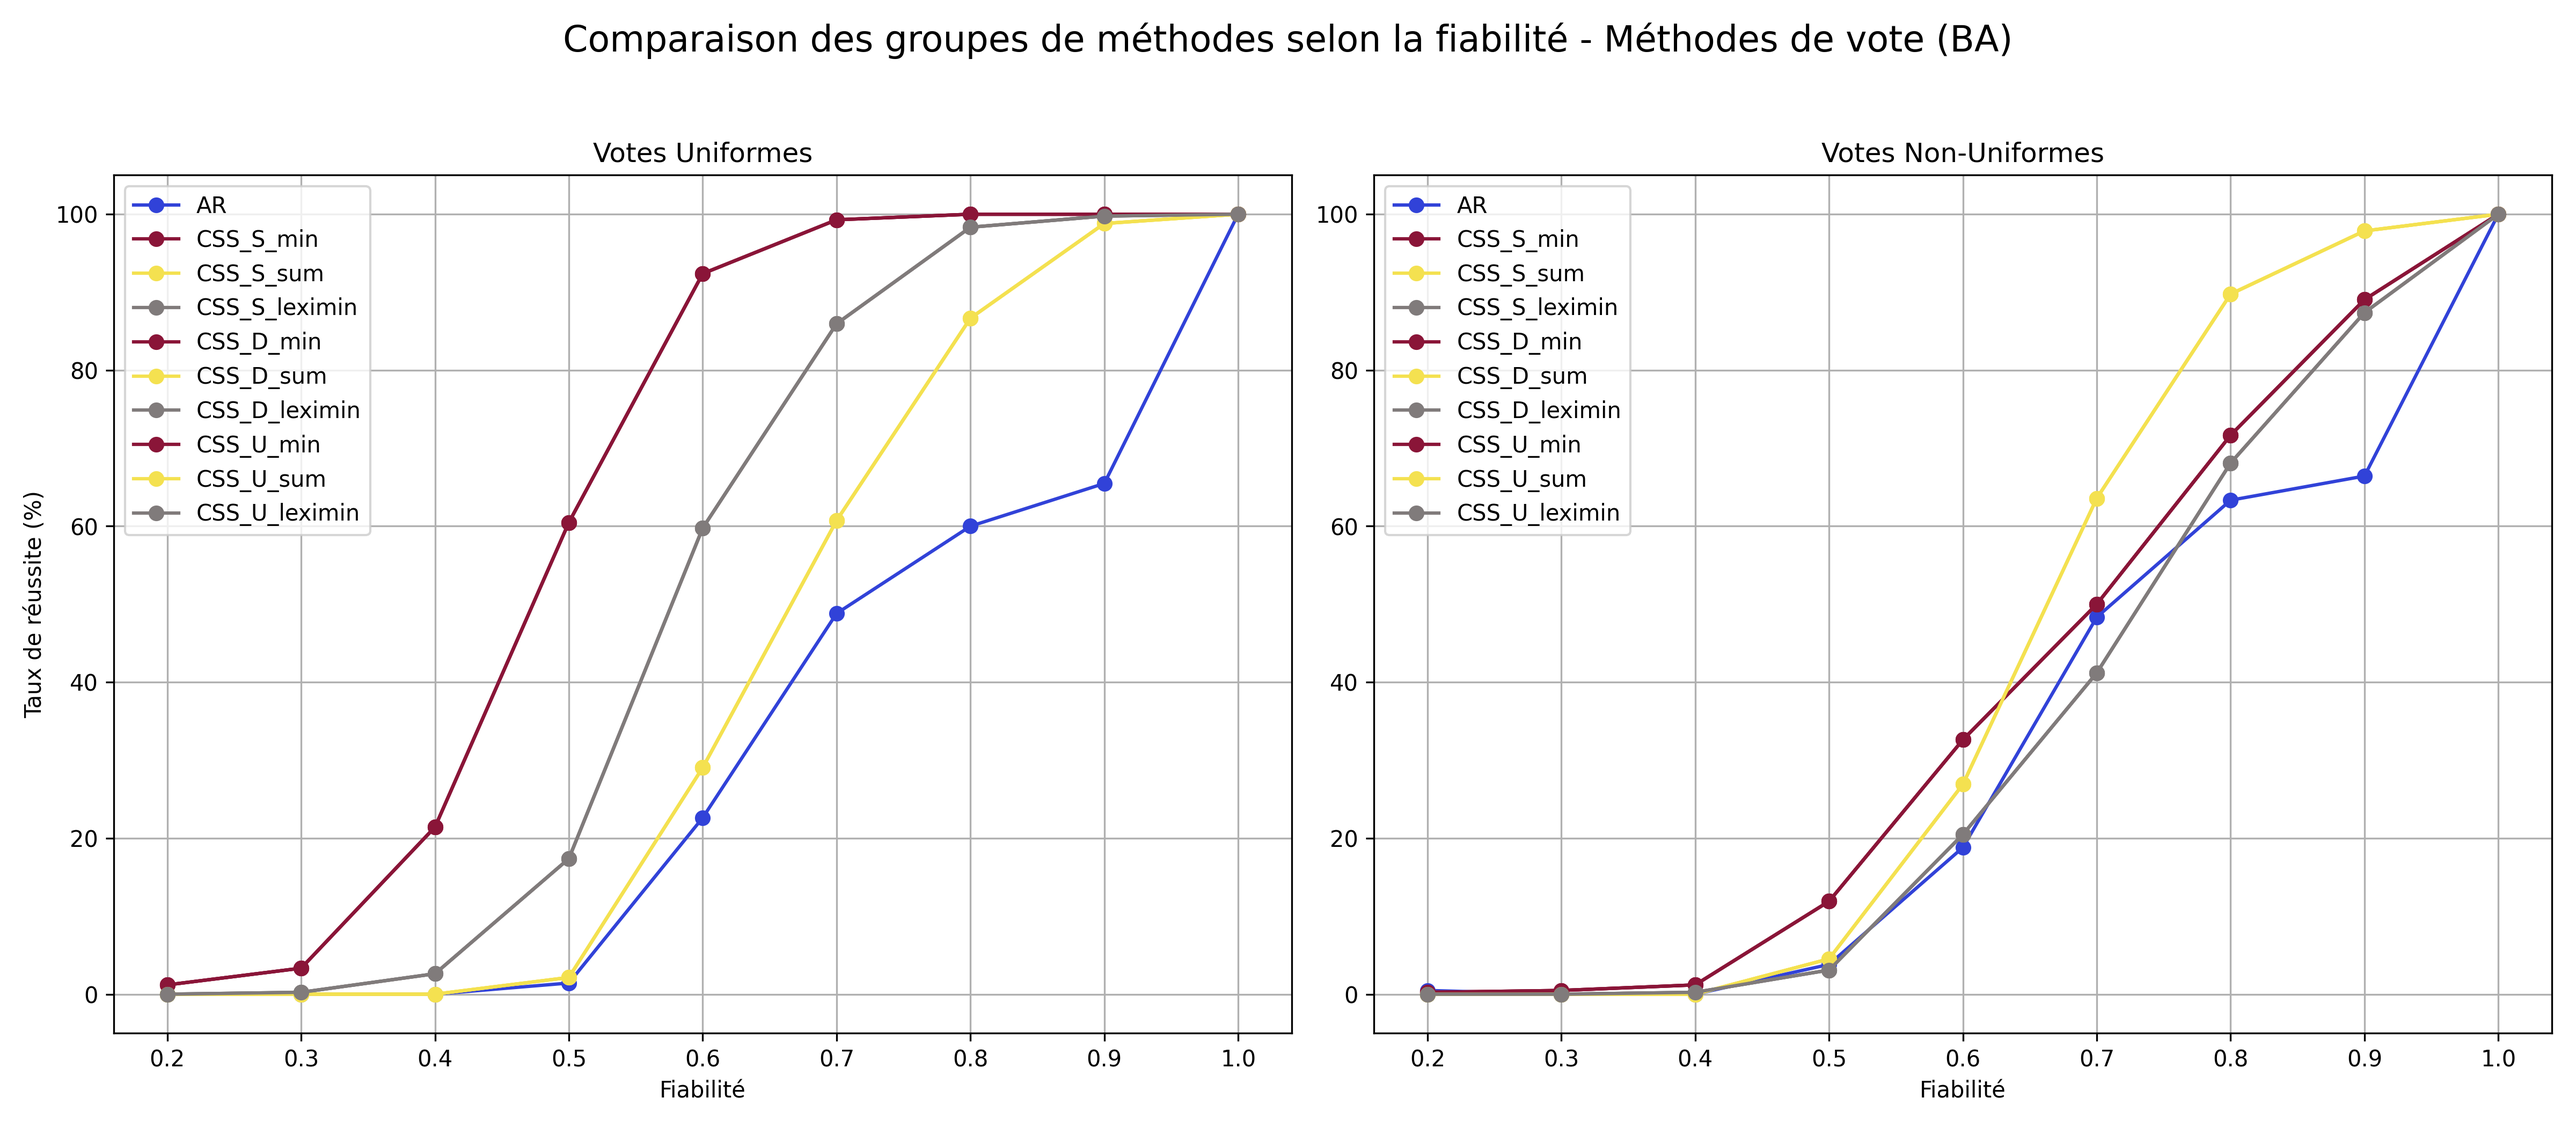
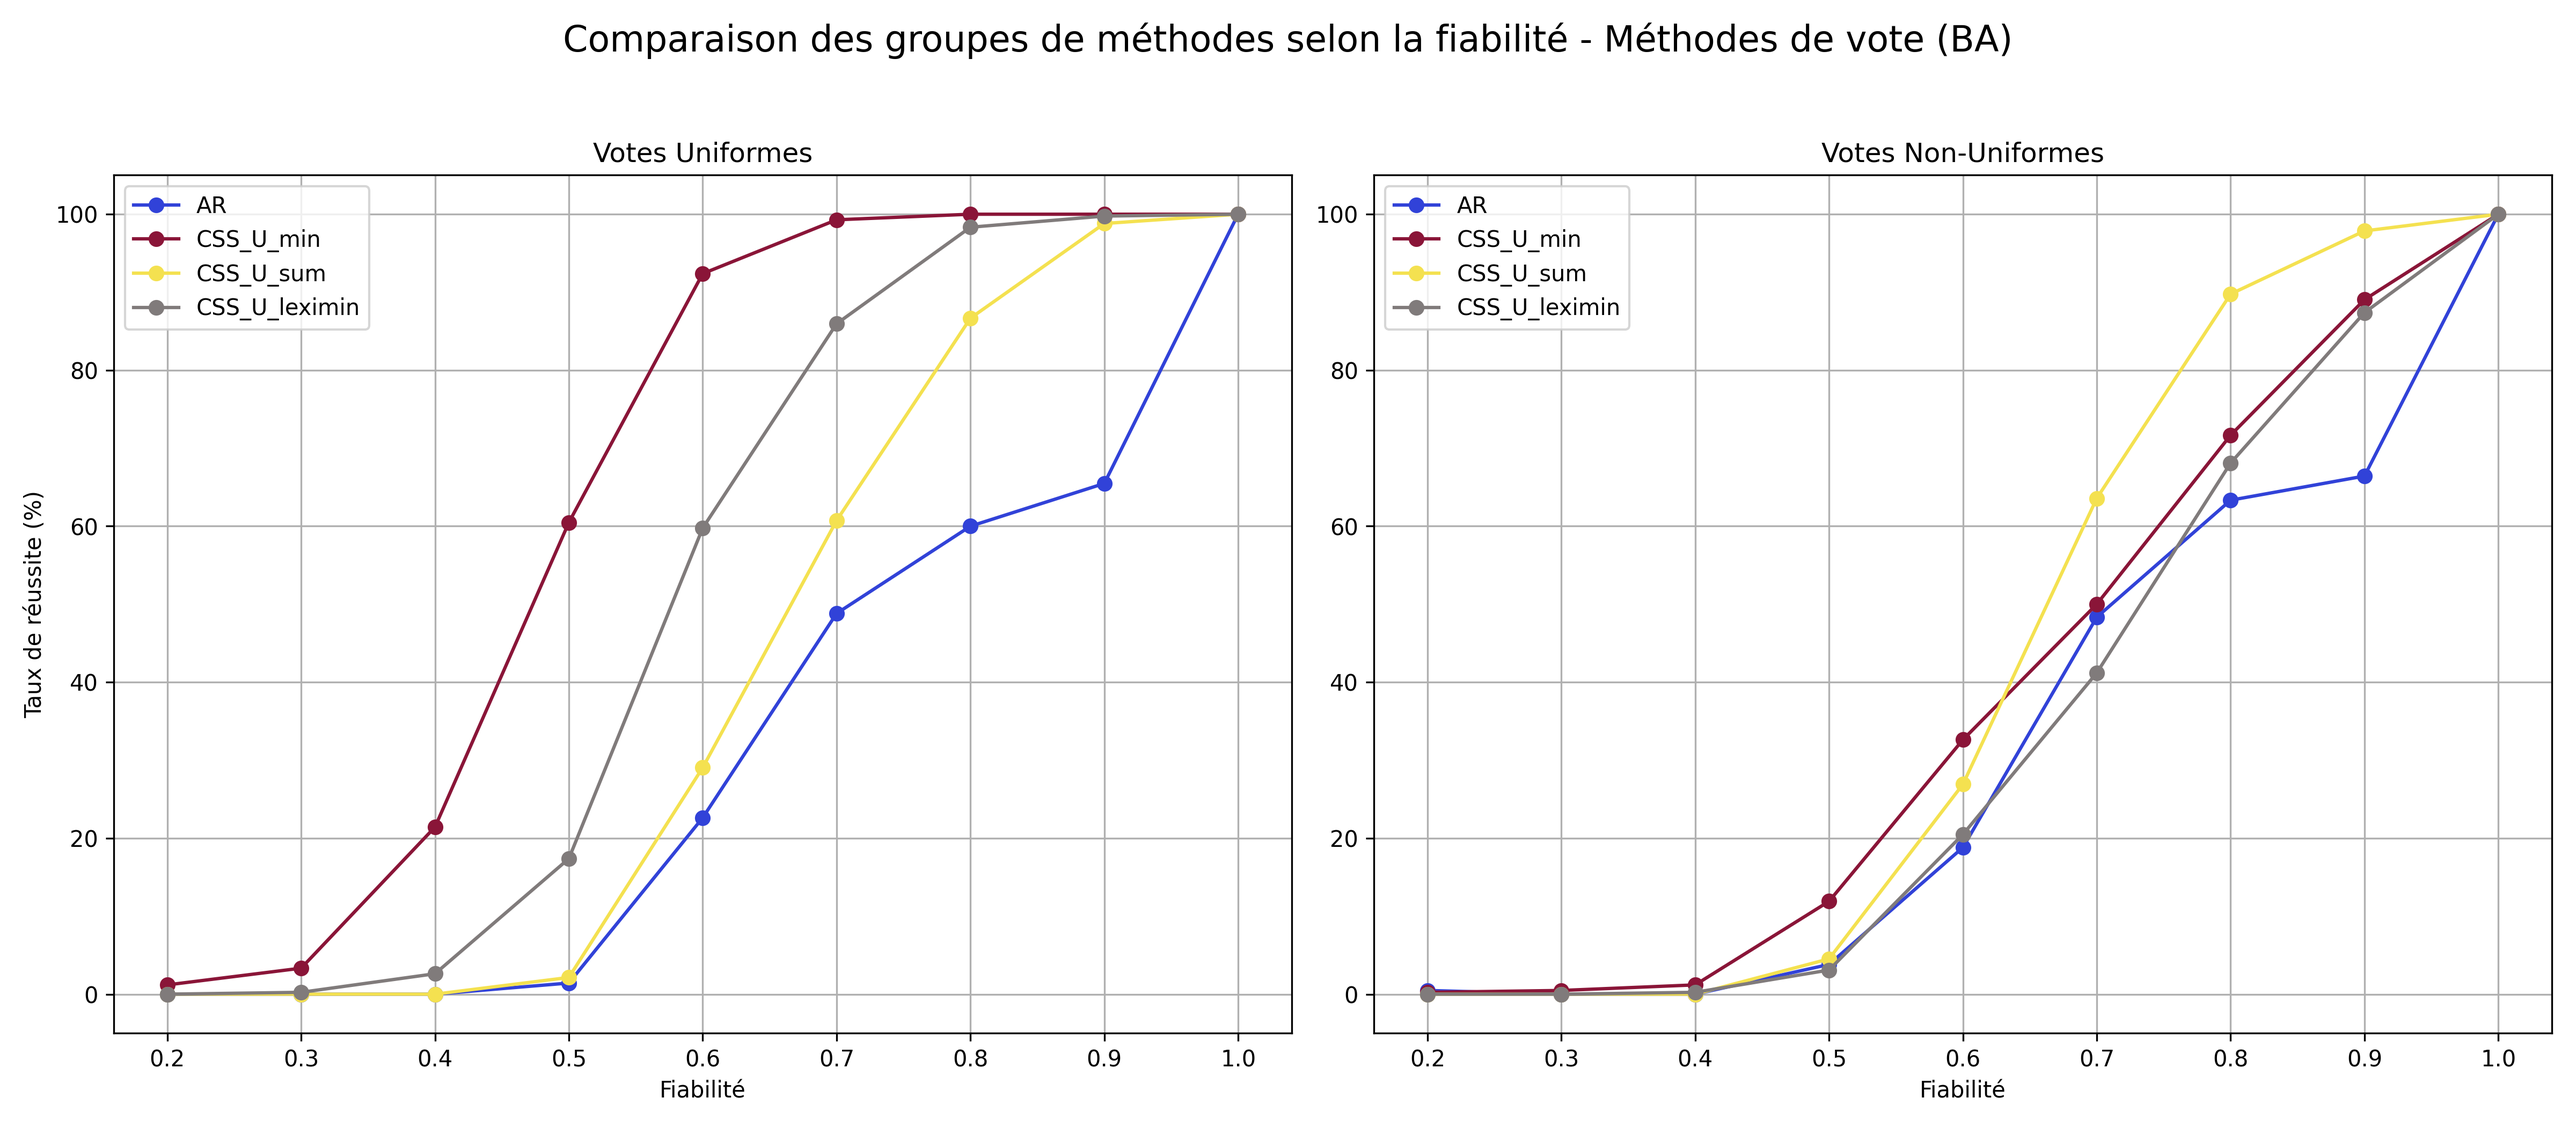
new figures

Changed region(s): [[0.0312, 0.1857, 0.1562, 0.4952], [0.5312, 0.1857, 0.625, 0.4952]]

diff --git a/comparaison/comparaison_fiab.py b/comparaison/comparaison_fiab.py
@@ -3,11 +3,14 @@ import matplotlib.pyplot as plt
 import os
 import ast
 
-df = pd.read_csv("obaf_results_WS.csv")
+# Chargement des données
+df = pd.read_csv("obaf_results.csv")
 
-output_dir = "figures/WS"
+# Dossier de sortie
+output_dir = "figures"
 os.makedirs(output_dir, exist_ok=True)
 
+# Fonction pour parser et normaliser les extensions
 def normalize_extension(ext):
     try:
         parsed = ast.literal_eval(ext.strip())
@@ -20,17 +23,13 @@ def normalize_extension(ext):
         pass
     return []
 
+# Fonction de comparaison
 def compare_extensions(returned_exts, true_ext):
     normalized_returned = normalize_extension(returned_exts)
     normalized_truth = normalize_extension(true_ext)
     return normalized_truth[0] in normalized_returned if normalized_truth else False
 
-# ➤ On ne garde que AR et CSS_U
-method_groups = {
-    "AR": ["AR"],
-    "CSS_U": ["CSS_U_min", "CSS_U_sum", "CSS_U_leximin"]
-}
-
+# Méthodes à tracer
 methods = {
     "AR": "EXT_AR",
     "CSS_U_min": "CSS_U_min",
@@ -38,6 +37,7 @@ methods = {
     "CSS_U_leximin": "CSS_U_leximin",
 }
 
+# Couleurs personnalisées
 custom_colors = {
     "AR": "#3142D8",
     "CSS_U_min": "#8A1538",  
@@ -45,33 +45,28 @@ custom_colors = {
     "CSS_U_leximin": "#807B7B",  
 }
 
-# ➤ Création de la figure avec seulement 2 sous-graphiques
-fig, axes = plt.subplots(1, 2, figsize=(14, 5))
-axes = axes.flatten()
+# ➤ Création du graphique
+plt.figure(figsize=(10, 6))
 
-for i, (group_label, method_list) in enumerate(method_groups.items()):
-    ax = axes[i]
-    
-    for label in method_list:
-        col = methods[label]
-        match_col = f"match_{label}"
-        df[match_col] = df.apply(lambda row: compare_extensions(row[col], row["verite"]), axis=1)
-        grouped = df.groupby("fiabilite")[match_col].mean().reset_index()
-        grouped["Taux de réussite (%)"] = grouped[match_col] * 100
+for label, col in methods.items():
+    match_col = f"match_{label}"
+    df[match_col] = df.apply(lambda row: compare_extensions(row[col], row["verite"]), axis=1)
+    grouped = df.groupby("fiabilite")[match_col].mean().reset_index()
+    grouped["Taux de réussite (%)"] = grouped[match_col] * 100
 
-        ax.plot(grouped["fiabilite"], grouped["Taux de réussite (%)"],
-                marker='o', linewidth=1.5, label=label, color=custom_colors[label])
+    plt.plot(grouped["fiabilite"], grouped["Taux de réussite (%)"],
+             marker='o', linewidth=1.5, label=label, color=custom_colors[label])
 
-    ax.set_title(f"Comparaison - {group_label}")
-    ax.set_xlabel("Fiabilité")
-    ax.set_ylabel("Taux de réussite (%)")
-    ax.grid(True)
-    ax.legend()
+plt.title("Comparaison des méthodes AR et CSS_U selon la fiabilité", fontsize=14)
+plt.xlabel("Fiabilité")
+plt.ylabel("Taux de réussite (%)")
+plt.grid(True)
+plt.ylim(0, 105)
+plt.legend()
+plt.tight_layout()
 
-plt.suptitle("Comparaison des méthodes AR et CSS_U selon la fiabilité (WS)", fontsize=14)
-plt.tight_layout(rect=[0, 0, 1, 0.95])
-
-output_path = os.path.join(output_dir, "taux_reussite_AR_CSS_U_ws.png")
+# ➤ Sauvegarde
+output_path = os.path.join(output_dir, "taux_reussite_AR_CSS_U.png")
 plt.savefig(output_path, dpi=300)
 plt.close()
 

diff --git a/comparaison/comparaison_methode.py b/comparaison/comparaison_methode.py
@@ -3,8 +3,8 @@ import matplotlib.pyplot as plt
 import os
 import ast
 
-df = pd.read_csv("obaf_results_WS.csv")
-output_dir = "figures/WS"
+df = pd.read_csv("obaf_results_BA.csv")
+output_dir = "figures/BA"
 os.makedirs(output_dir, exist_ok=True)
 
 def normalize_extension(ext):
@@ -27,32 +27,18 @@ def compare_extensions(returned_exts, true_ext):
 # Groupes de méthodes à afficher
 method_groups = {
     "AR": ["AR"],
-    "CSS_S": ["CSS_S_min", "CSS_S_sum", "CSS_S_leximin"],
-    "CSS_D": ["CSS_D_min", "CSS_D_sum", "CSS_D_leximin"],
     "CSS_U": ["CSS_U_min", "CSS_U_sum", "CSS_U_leximin"]
 }
 
 methods = {
     "AR": "EXT_AR",
-    "CSS_S_min": "CSS_S_min",
-    "CSS_S_sum": "CSS_S_sum",
-    "CSS_S_leximin": "CSS_S_leximin",
-    "CSS_D_min": "CSS_D_min",
-    "CSS_D_sum": "CSS_D_sum",
-    "CSS_D_leximin": "CSS_D_leximin",
     "CSS_U_min": "CSS_U_min",
     "CSS_U_sum": "CSS_U_sum",
     "CSS_U_leximin": "CSS_U_leximin",
 }
 
 custom_colors = {
-    "AR": "#3142D8",         
-    "CSS_S_min": "#8A1538", 
-    "CSS_S_sum": "#F4E150",  
-    "CSS_S_leximin": "#807B7B",  
-    "CSS_D_min": "#8A1538",  
-    "CSS_D_sum": "#F4E150",  
-    "CSS_D_leximin": "#807B7B",  
+    "AR": "#3142D8", 
     "CSS_U_min": "#8A1538",  
     "CSS_U_sum": "#F4E150",  
     "CSS_U_leximin": "#807B7B",  
@@ -85,10 +71,10 @@ for idx, methode in enumerate(methode_list):
     ax.grid(True)
     ax.legend()
 
-plt.suptitle("Comparaison des groupes de méthodes selon la fiabilité - Méthodes de vote (WS)", fontsize=16)
+plt.suptitle("Comparaison des groupes de méthodes selon la fiabilité - Méthodes de vote (BA)", fontsize=16)
 plt.tight_layout(rect=[0, 0, 1, 0.95])
 
-output_path = os.path.join(output_dir, "taux_reussite_uniforme_vs_non_uniforme_ws.png")
+output_path = os.path.join(output_dir, "taux_reussite_uniforme_vs_non_uniforme_ba.png")
 plt.savefig(output_path, dpi=300)
 plt.close()
 

diff --git a/script_css_ar.py b/script_css_ar.py
@@ -3,7 +3,7 @@ import csv
 import subprocess
 
 obaf_root_dir = "./benchmark/OBAF/BA"
-output_csv = "obaf_results_BA_TEST.csv"
+output_csv = "obaf_results_BA.csv"
 
 measures = ["S", "D", "U"]
 aggregations = ["sum", "min", "leximin"]
